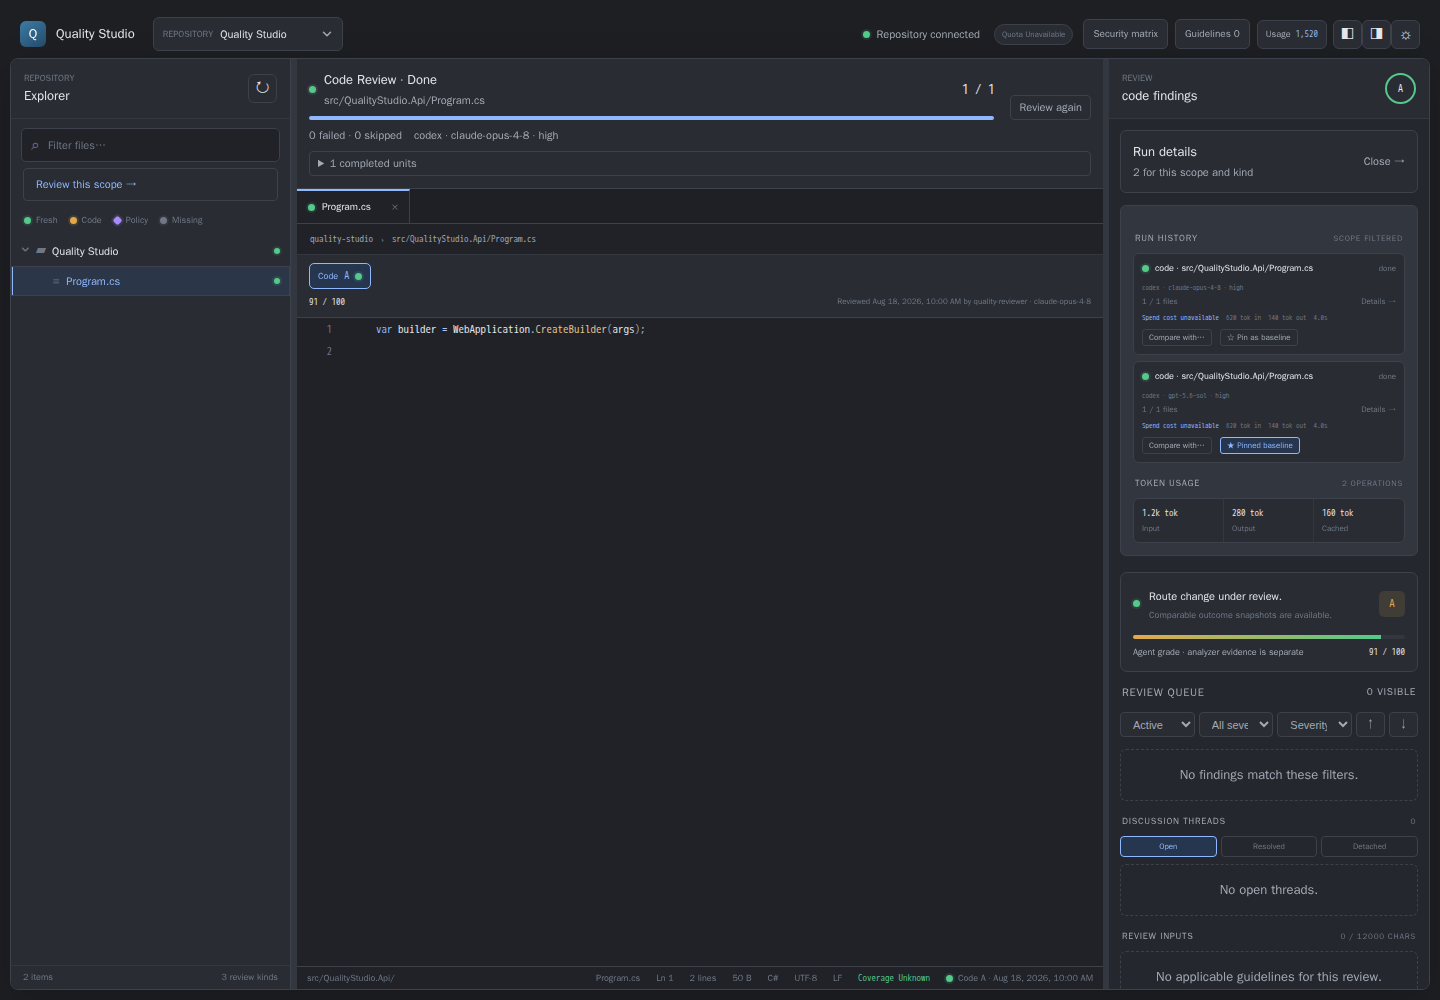
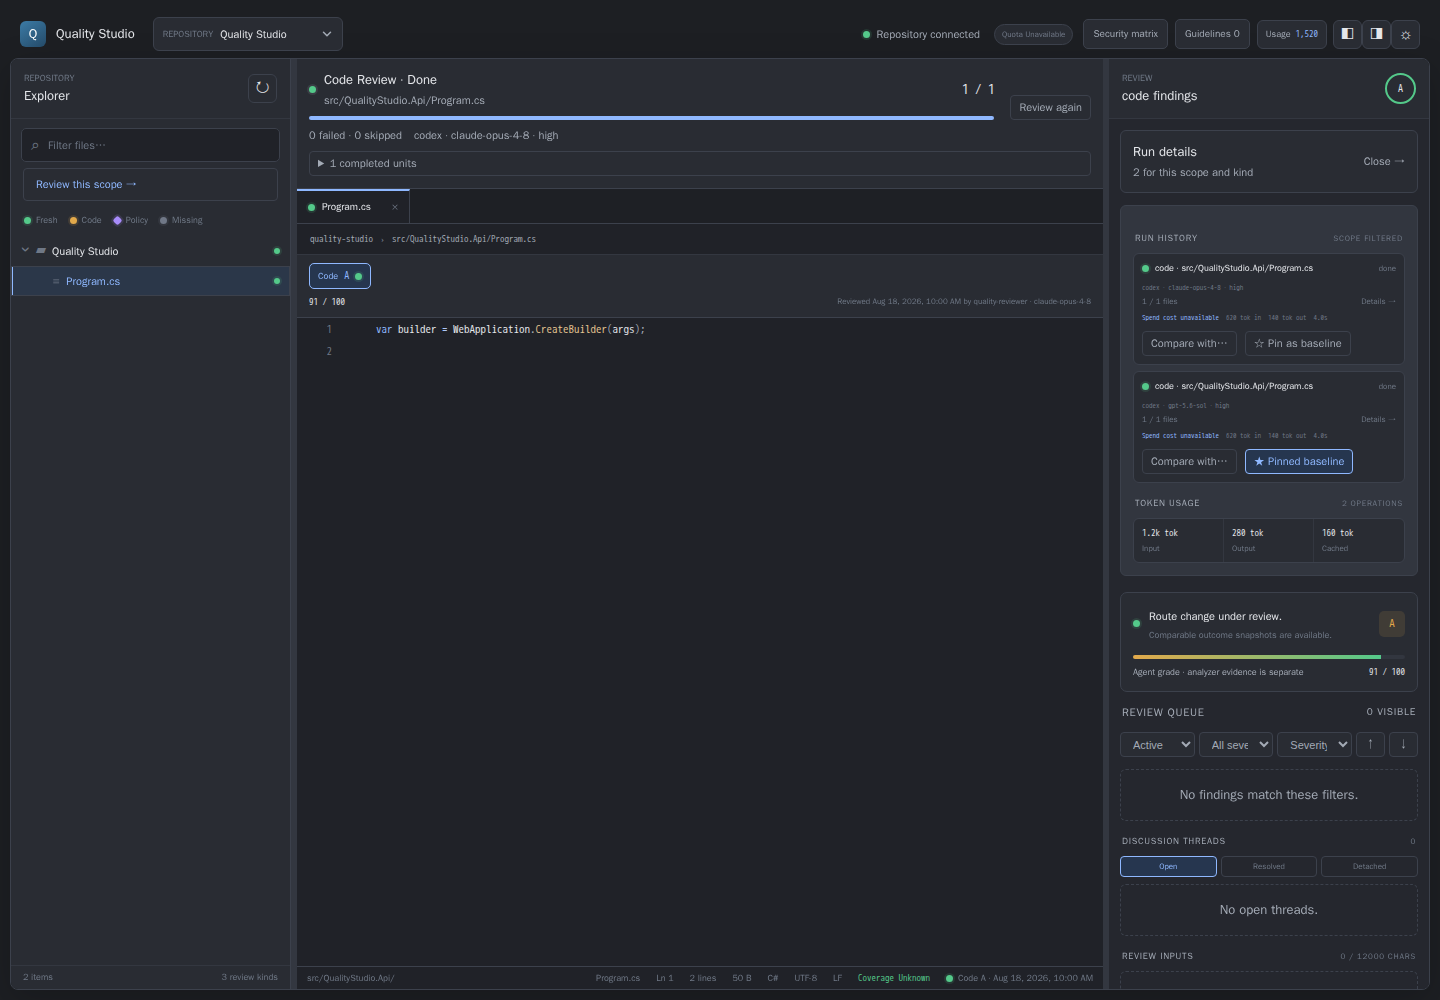
fix(review-panel): use design tokens for run-compare controls (QS-83)
The run-compare action controls were the only rules in review-panel.css
using raw px values (margin-top:6px, padding:2px 6px, border-radius:3px,
font-size:8px) while every surrounding rule uses the central studio token
scale. Replace them with the equivalent tokens; font-size:8px in
particular was below the design system's smallest text size (11px,
--studio-font-size-label) and rendered the Compare/Pin controls barely
legible.

Also drop the CRLF/LF line-ending churn that the S6 commit introduced into
angular.json, so the diff carries only the genuine anyComponentStyle
budget change.

Evidence screenshots regenerated against the running app.

diff --git a/frontend/src/app/review-panel/review-panel.css b/frontend/src/app/review-panel/review-panel.css
@@ -18,6 +18,6 @@
 .run-detail-surface{display:grid;gap:var(--studio-space-3);margin-top:var(--studio-space-3);padding:var(--studio-space-3);border:1px solid var(--studio-border);border-radius:var(--studio-radius-card);background:var(--studio-bg-surface)}.run-detail-surface>header,.run-report-state,.commit-trend-note{display:flex;align-items:center;justify-content:space-between;gap:var(--studio-space-2)}.run-detail-surface>header>div,.commit-trend-note>div,.run-provenance{display:grid;gap:var(--studio-space-1)}.run-detail-message,.run-partial,.run-detail-surface small,.run-detail-surface p,.run-detail-surface code{margin:0;color:var(--studio-fg-muted);font-size:var(--studio-font-size-label);line-height:var(--studio-line-height-body)}
 .run-summary-grid,.run-exports{display:grid;grid-template-columns:repeat(2,minmax(0,1fr));gap:var(--studio-space-1)}.run-summary-grid span,.run-trend article,.run-units article,.run-findings article,.commit-trend-note,.run-provenance{padding:var(--studio-space-2);border:1px solid var(--studio-border-soft);border-radius:var(--studio-radius-badge)}.run-summary-grid span{display:grid}.run-exports{grid-template-columns:repeat(4,minmax(0,1fr))}.run-exports a,.trend-more,.commit-trend-note a{padding:var(--studio-space-1);border:1px solid var(--studio-border);border-radius:var(--studio-radius-badge);background:var(--studio-bg-elevated);color:var(--studio-fg);font-size:var(--studio-font-size-label);text-align:center;text-decoration:none}
 .run-trend article>div{display:grid}
-.run-compare-actions{display:flex;gap:var(--studio-space-2);margin-top:6px}.run-compare-actions button{padding:2px 6px;border:1px solid var(--studio-border);border-radius:3px;background:transparent;color:var(--studio-fg-muted);font-size:8px;cursor:pointer}.run-compare-actions button.pinned{border-color:var(--studio-accent);color:var(--studio-accent);background:var(--studio-accent-soft)}
+.run-compare-actions{display:flex;gap:var(--studio-space-2);margin-top:var(--studio-space-2)}.run-compare-actions button{padding:var(--studio-space-1) var(--studio-space-2);border:1px solid var(--studio-border);border-radius:var(--studio-radius-badge);background:transparent;color:var(--studio-fg-muted);font-size:var(--studio-font-size-label);cursor:pointer}.run-compare-actions button.pinned{border-color:var(--studio-accent);color:var(--studio-accent);background:var(--studio-accent-soft)}
 .compare-picker{display:grid;grid-template-columns:repeat(2,minmax(0,1fr));gap:var(--studio-space-2)}.compare-picker label{display:grid;gap:var(--studio-space-1);color:var(--studio-fg-muted);font-size:var(--studio-font-size-label)}.compare-picker select{padding:var(--studio-space-2);border:1px solid var(--studio-border);border-radius:var(--studio-radius-badge);background:var(--studio-bg-elevated);color:var(--studio-fg)}
 .compare-route-warning{padding:var(--studio-space-3);border:1px solid var(--status-stale);border-radius:var(--studio-radius-card);color:var(--studio-fg-muted);font-size:var(--studio-font-size-body)}.compare-route-warning b{color:var(--status-stale)}.compare-route-warning ul{margin:var(--studio-space-1) 0 0;padding-left:1.1em}
